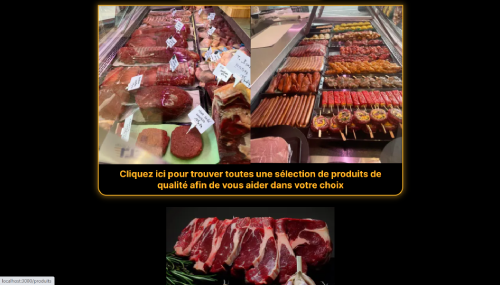
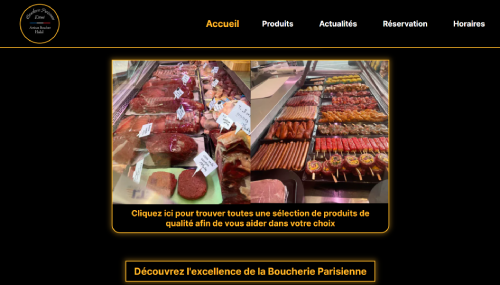
Correction et maj

diff --git a/app/components/Project/Project.jsx b/app/components/Project/Project.jsx
@@ -10,7 +10,7 @@ const Project = ({project}) => {
 
 const goToNextSlide = () => {
     setCurrentIndex(
-      (prevIndex) => (prevIndex - 1 + images.length) % images.length
+      (prevIndex) => (prevIndex + 1 + images.length) % images.length
     );
   };
   const goToPrevSlide = () => {
@@ -74,9 +74,13 @@ const goToNextSlide = () => {
             </ul>
           </div>
           <div className="liengit--flex">
-            <a href={project.link} className="liengit">
+            <a href={project.link} target="_blank" className="liengit">
               Lien vers le répo Github
             </a>
+            {project.demo &&
+            <a href={project.demo} target="_blank" className="liengit">
+              Lien vers le site live
+            </a>}
           </div>
         </div>
       </div>

diff --git a/app/components/ContactForm/ContatcForm.jsx b/app/components/ContactForm/ContatcForm.jsx
@@ -22,7 +22,7 @@ function ContactForm() {
         field="email"
         errors={state.errors}
       />
-      <label>Message</label>
+      <label htmlFor="message">Message</label>
       <textarea
         id="message"
         type="text"

diff --git a/app/components/Project/Project.css b/app/components/Project/Project.css
@@ -116,6 +116,10 @@
   .project .carousel {
     height: 290px;
   }
+  .project .carousel__image {
+    -o-object-fit: cover;
+       object-fit: cover;
+  }
   .project .usedskills--flex {
     width: 100%;
     display: flex;

diff --git a/app/components/Project/Project.scss b/app/components/Project/Project.scss
@@ -113,6 +113,9 @@
     flex-basis: 45%;
     & .carousel {
       height: 290px;
+      &__image {
+        object-fit: cover;
+      }
     }
     & .usedskills--flex {
       width: 100%;
